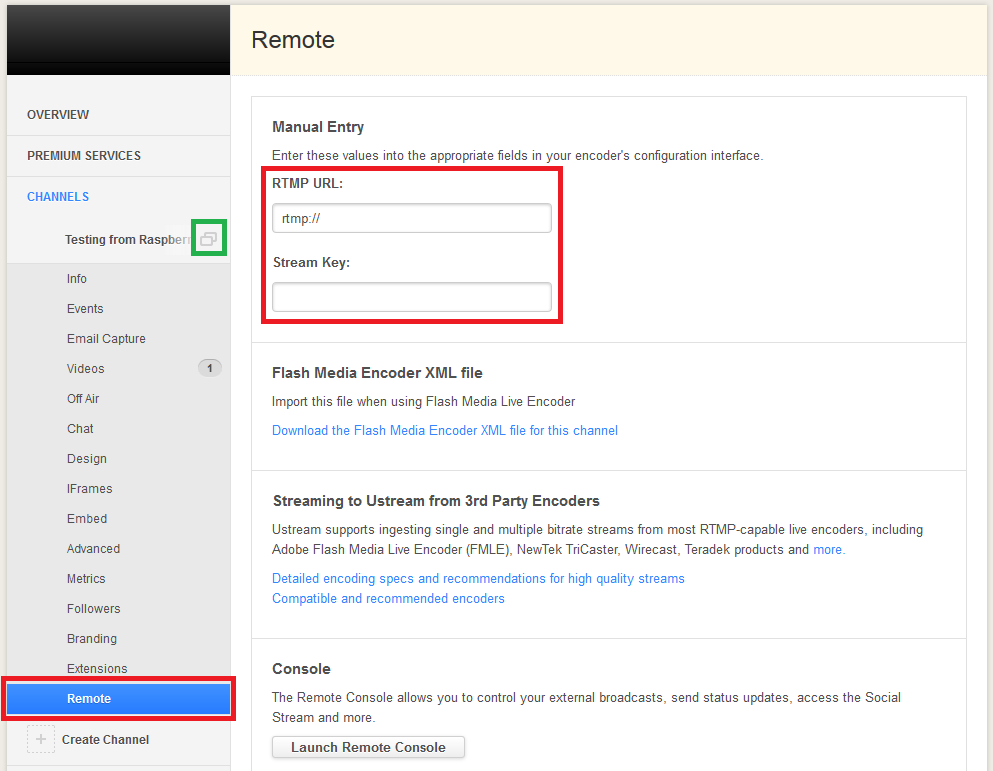
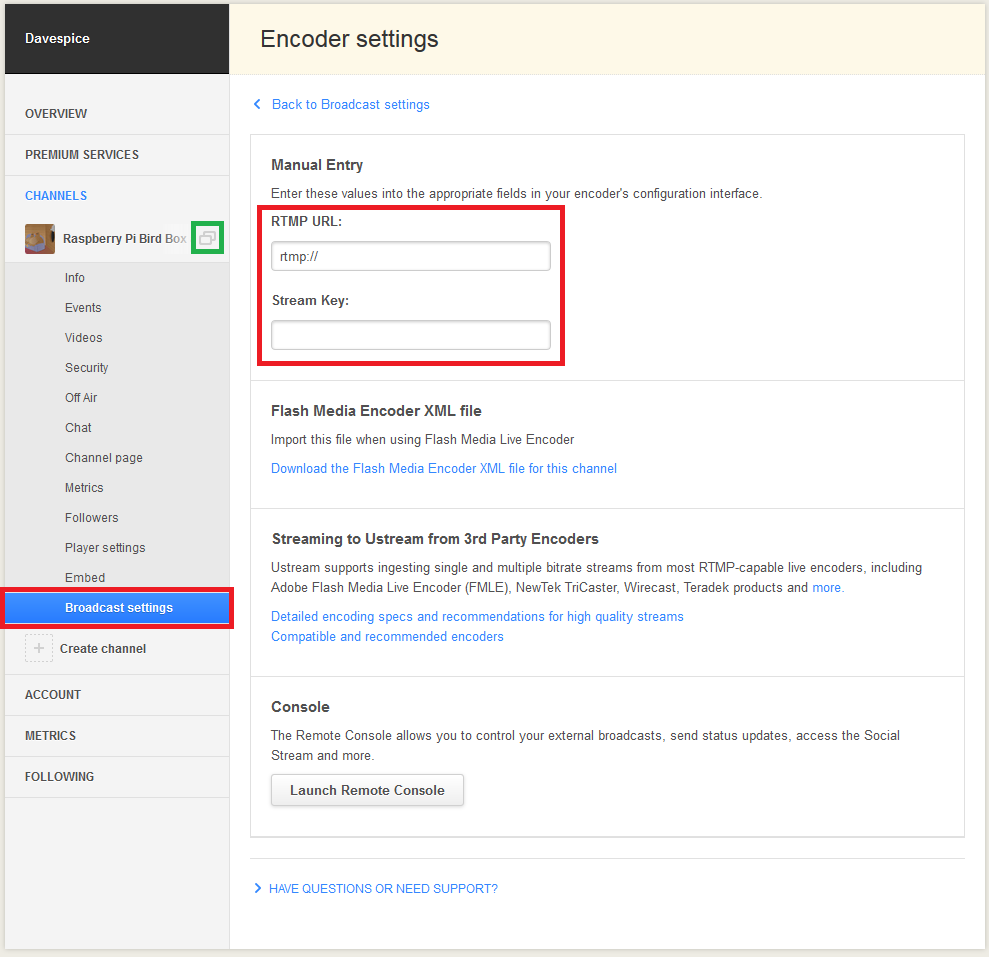
update for Ustream UI changes

Changed region(s): [[0.0, 0.0, 1.0, 1.0], [0.2427, 0.0311, 0.455, 0.0623], [0.273, 0.0934, 0.455, 0.1245]]

diff --git a/worksheet2.md b/worksheet2.md
@@ -46,9 +46,10 @@ To find these two settings follow the steps below:
 - Select **Dashboard** from the top right menu
 - Select **CHANNELS** from the left hand menu
 - Select your channel
-- Select **Remote**
+- Select **Broadcast Settings**
+- Select **Encoder settings > View**
 
-You should then see the screen below; however, the **RTMP URL** and **Stream Key** fields will contain text. Copy and paste these values into a text file for use later.
+You should then see the screen below; however, the **RTMP URL** and **Stream Key** fields will contain text. Keep this page open for use in the next step.
 
 ![](images/ustream-remote-settings.png)
 
@@ -64,7 +65,7 @@ On the Raspberry Pi let's create a script to do this. Enter the following comman
 nano ~/ustream
 ```
 
-Now copy and paste the code below, but replace `<rtmpurl>` and `<streamkey>` with the corresponding values from your own Ustream channel:
+Now copy and paste the code below, but replace `<rtmpurl>` and `<streamkey>` with the corresponding values from your own Ustream encoder settings page (see previous step):
 
 ```bash
 #!/bin/bash

diff --git a/worksheet.md b/worksheet.md
@@ -216,6 +216,6 @@ Here are some ideas for making the installation more permanent and protecting it
 
 ## Streaming video to the Internet
 
-There is also a second worksheet that you can follow if you wish to stream your bird box live on the internet.
+There is also a second worksheet that you can follow if you wish to stream your bird box live on the Internet.
 
 - [Advanced second worksheet](worksheet2.md)
